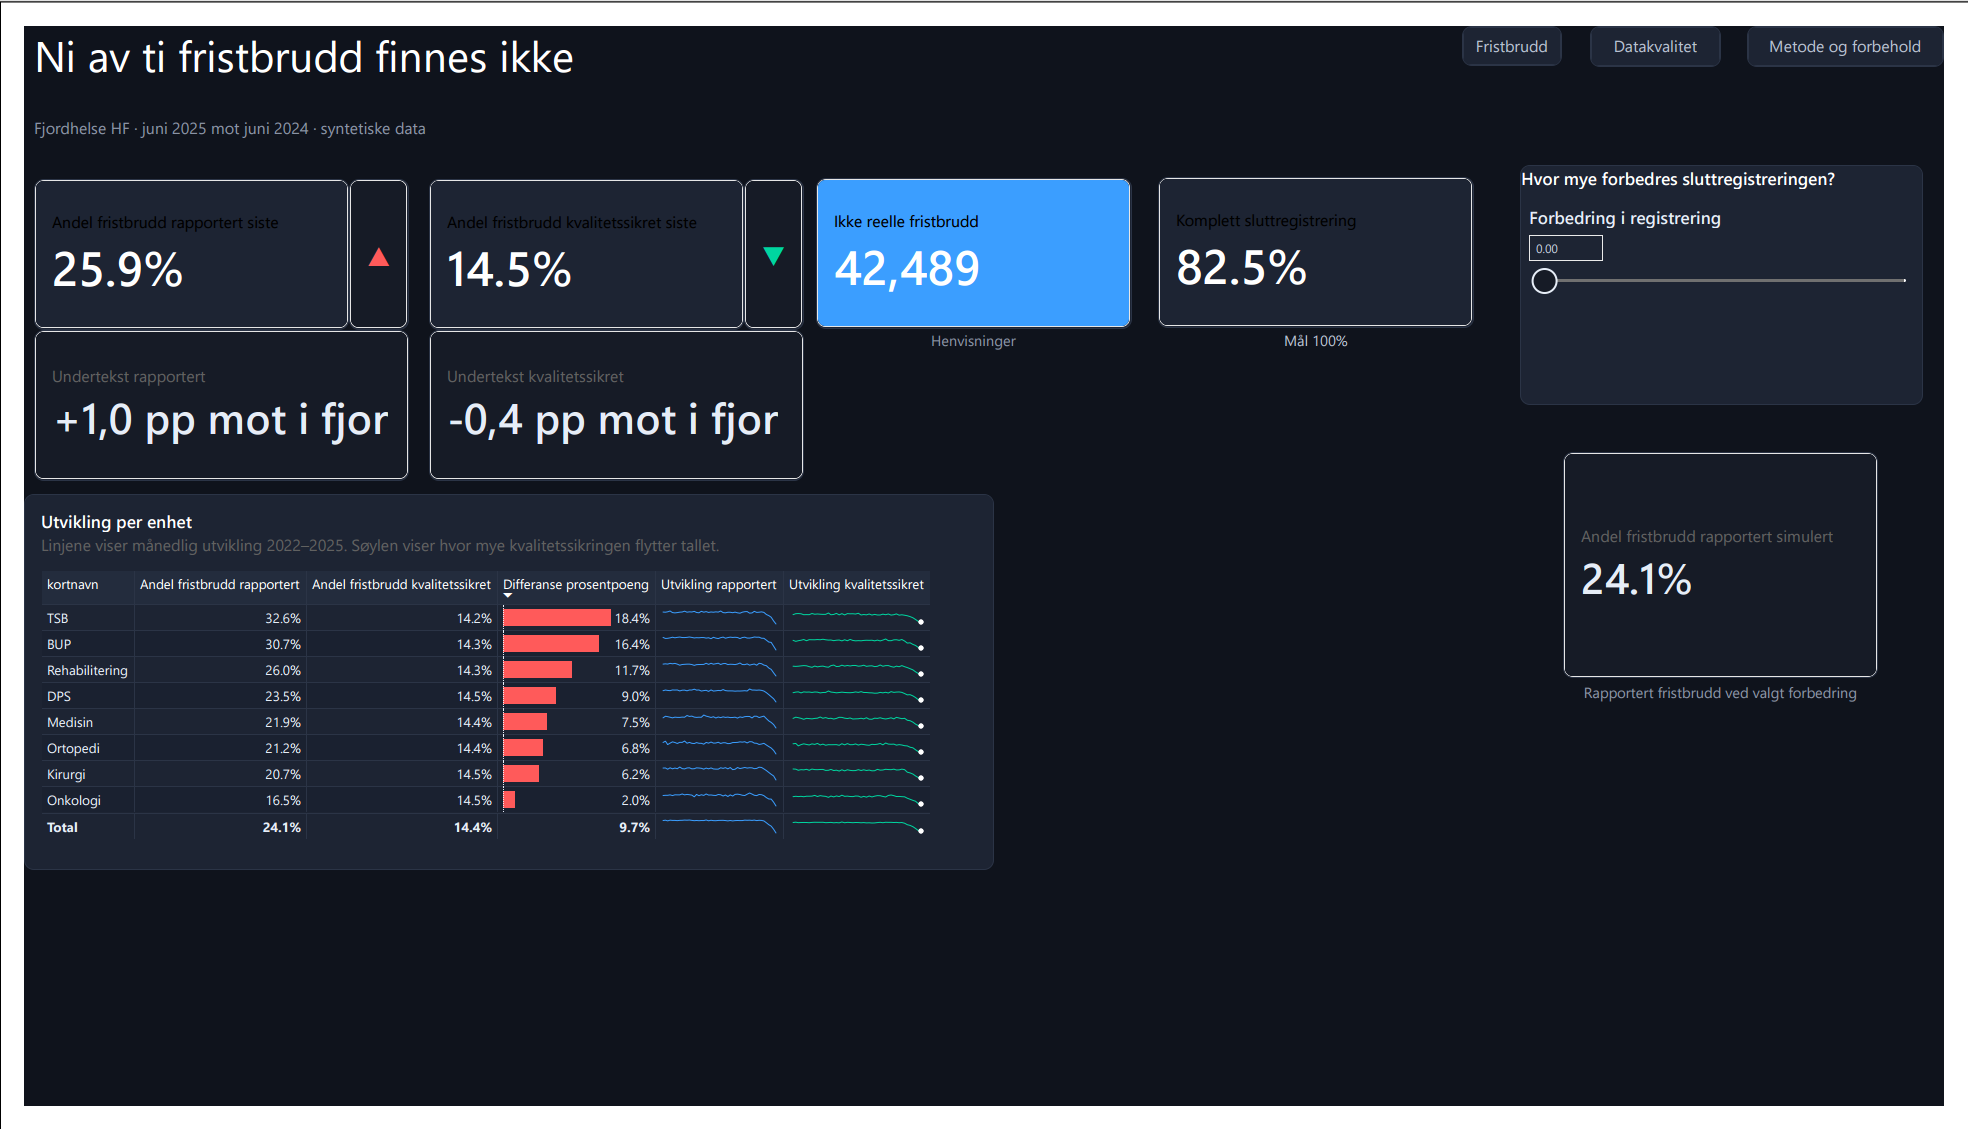
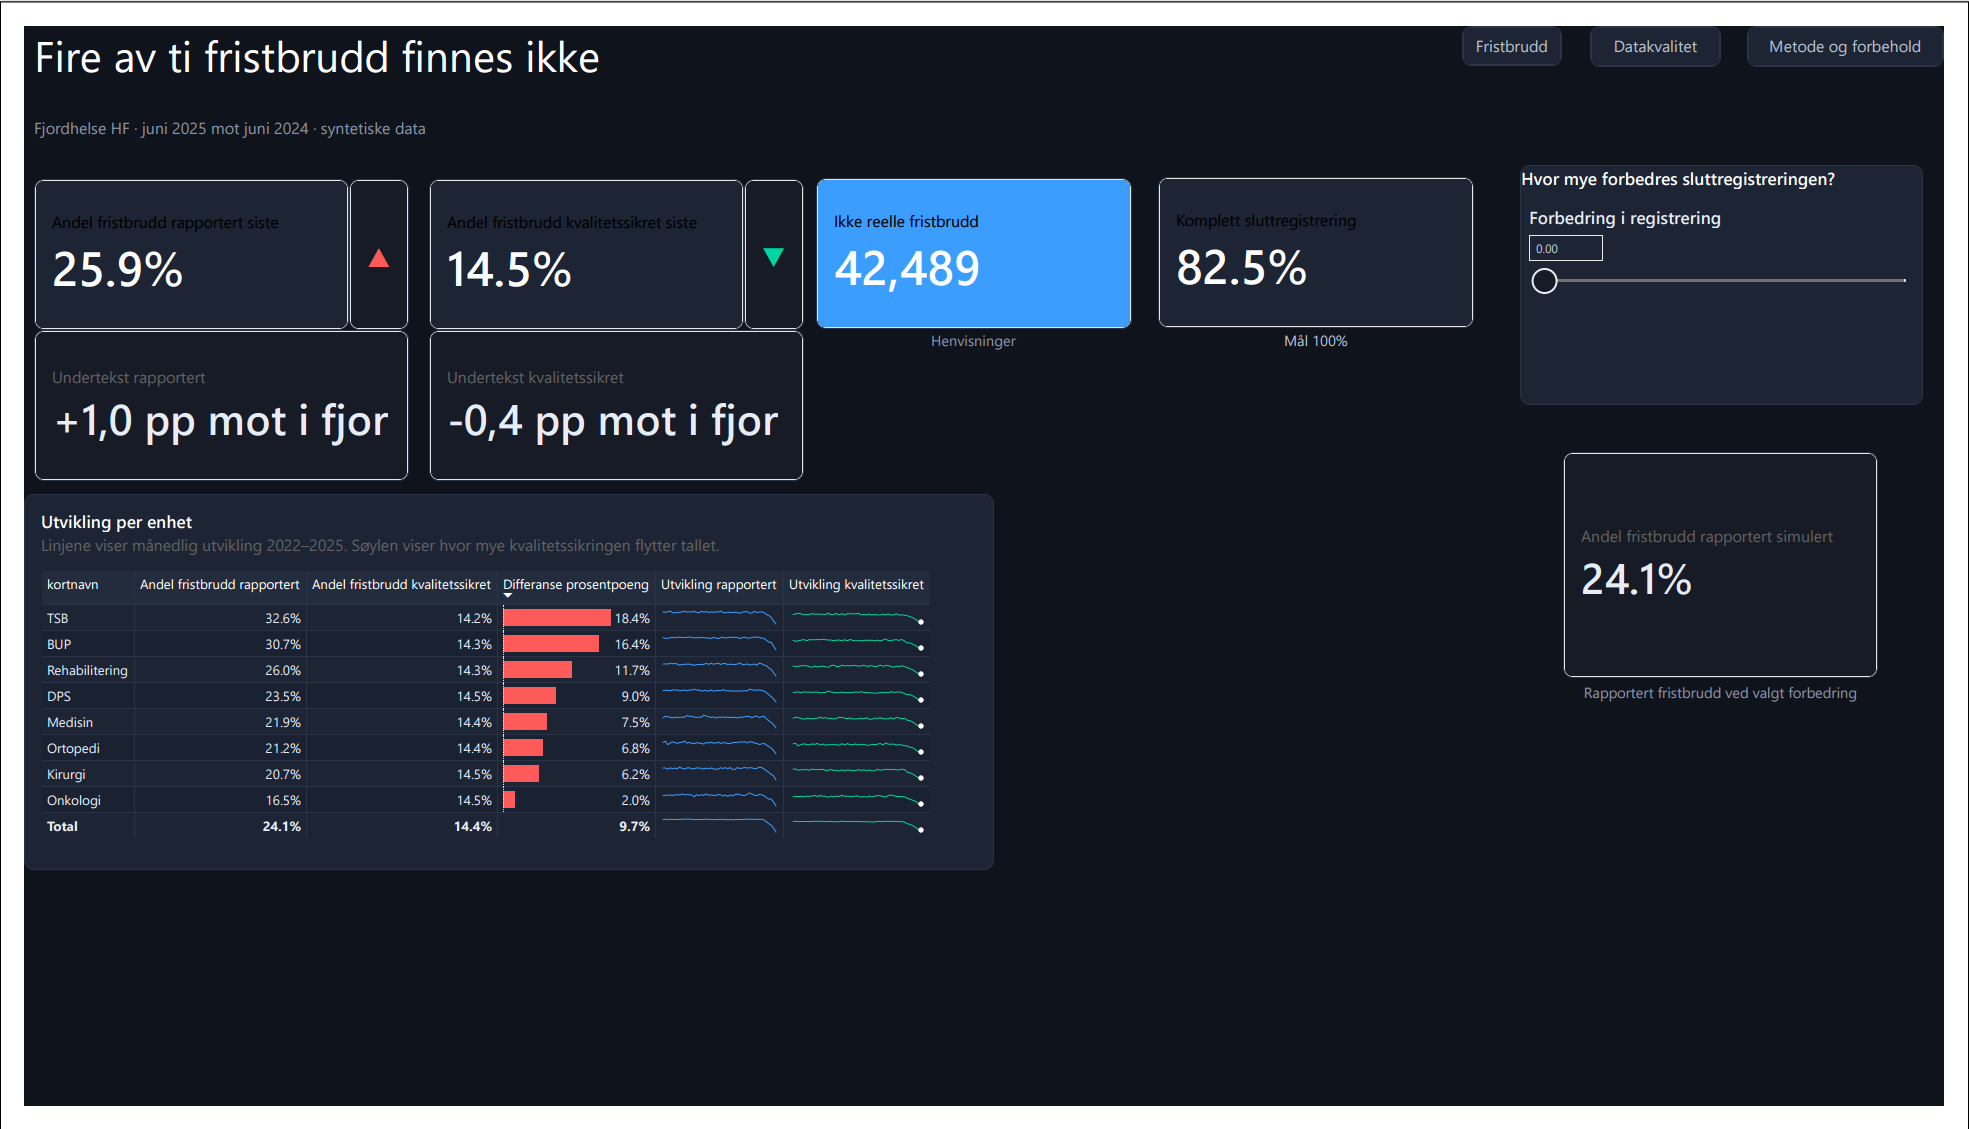
Rett overskrift: fire av ti, ikke ni av ti

diff --git a/README.md b/README.md
@@ -1,6 +1,6 @@
 # Fjordhelse — datakvalitet i et fagsystem
 
-**Ni av ti fristbrudd finnes ikke.**
+**Fire av ti fristbrudd finnes ikke.**
 
 Rapportert andel fristbrudd i Fjordhelse HF er 24,1 %. Etter kvalitetssikring av registreringsdataene er den 14,4 %. Forskjellen — 9,7 prosentpoeng, 42 489 henvisninger — er registreringspraksis, ikke ventetid.
 
@@ -69,7 +69,7 @@ Det er kontrollen på at metoden virker — ikke at tallene er pene.
 | Onkologi | 16,5 % | 14,5 % | 2,0 pp |
 | **Totalt** | **24,1 %** | **14,4 %** | **9,7 pp** |
 
-Etter kvalitetssikring ligger samtlige enheter mellom 14,2 og 14,5 prosent. Spredningen på 16 prosentpoeng i det rapporterte tallet er i sin helhet registreringspraksis.
+Etter kvalitetssikring ligger samtlige enheter mellom 14,2 og 14,5 prosent. Spredningen mellom beste og dårligste enhet faller fra 16,1 til 0,3 prosentpoeng. Nesten hele forskjellen som styringstallet viste, var registreringspraksis.
 
 De psykiske helsevernenhetene (TSB, BUP, DPS) og rehabilitering har lengst forløp og flest kontaktpunkter per pasient, og dermed flest anledninger til at en sluttregistrering uteblir. Onkologi har korte, tett oppfulgte forløp og nesten ingen avvik.
 
@@ -154,7 +154,6 @@ Fire sider:
 | **Datakvalitet** | Matrise over seks feiltyper, tidsserie for manglende sluttregistrering |
 | **Metode og forbehold** | Definisjoner, datagrunnlag, begrensninger |
 
-![Metode og forbehold](docs/bilder/side3_metode.png)
 ![Datakvalitet](docs/bilder/side2_datakvalitet.png)
 
 Mørkt tema definert i `powerbi/tema.json`. Blå er alltid rapportert, grønn er alltid kvalitetssikret, rød er forbeholdt avvik. Fargene betyr det samme på alle fire sidene.
@@ -199,6 +198,8 @@ Med ekte data ville `registrert_tidspunkt` alene ikke vært godt nok bevis på p
 Sammenligningen mot samme måned i fjor er tatt med for å vise tidsintelligens i modellen. På et syntetisk datasett med fast seed er den bevegelsen støy, ikke et funn.
 
 Definisjonen av kvalitetssikret fristbrudd er ett av flere mulige valg. Den er dokumentert i rapportens metodeside slik at den kan bestrides.
+
+![Metode og forbehold](docs/bilder/side3_metode.png)
 
 ---
 
